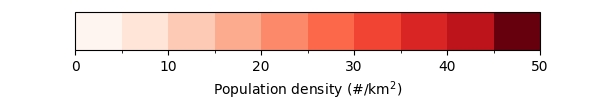
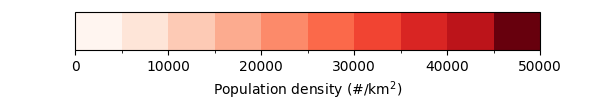
dev-singapore-stack: made population density values more realistic

diff --git a/Deploy/stacks/Singapore/colorbar_generator/colourbar.py b/Deploy/stacks/Singapore/colorbar_generator/colourbar.py
@@ -23,7 +23,7 @@ def create_colors():
     cb2.set_label('Heat emissions (MW)')
     fig.show()
 
-    bounds = range(0, 51, 5)
+    bounds = range(0, 51000, 5000)
     fig2, ax = plt.subplots(figsize=(6, 1))
     fig2.subplots_adjust(bottom=0.5)
     color1 = mcp.gen_color(cmap="Reds", n=len(bounds))
